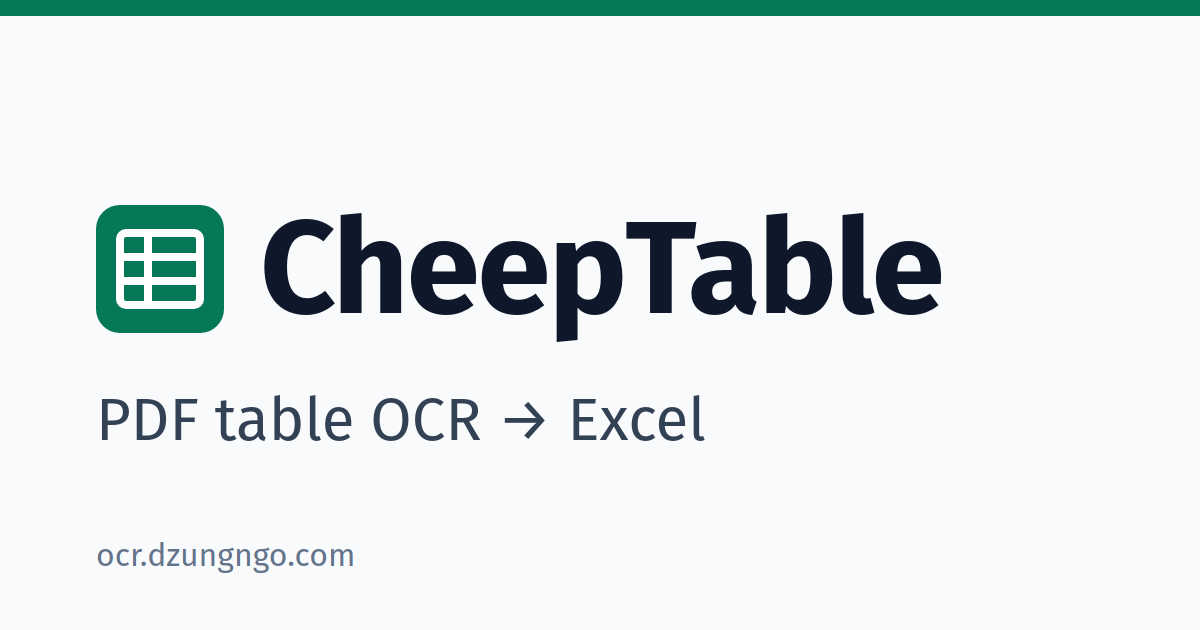
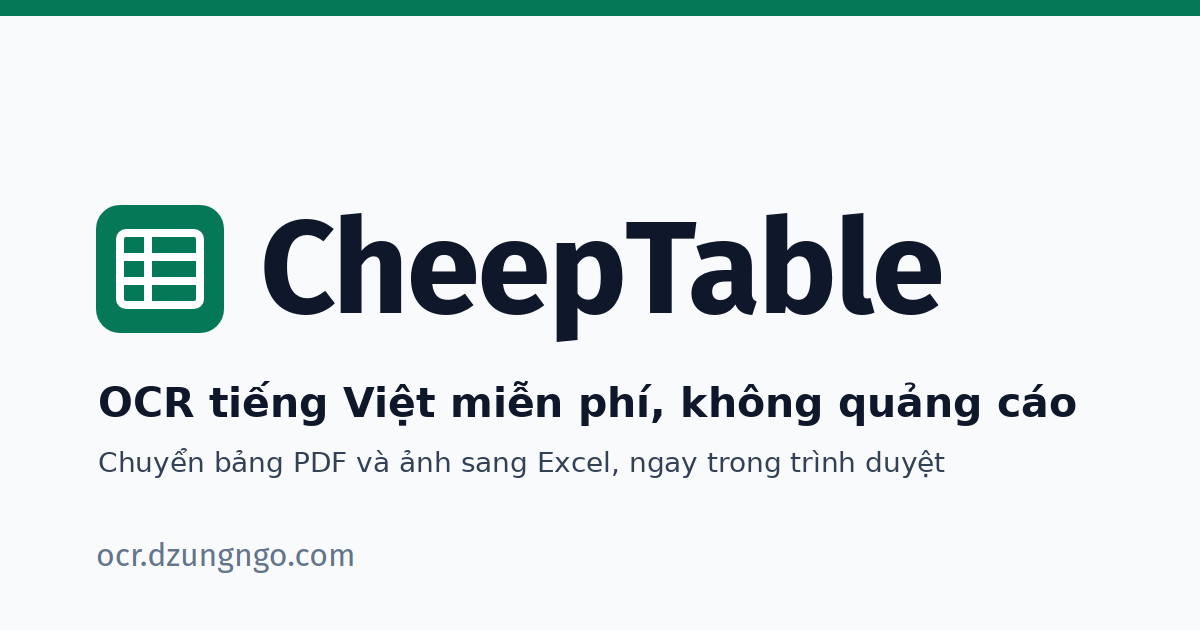
feat: present CheepTable as free and ad-free Vietnamese OCR
- title, description, share image, structured data (free to use), badge row, FAQ entry and footer say it
- sitemap date refreshed

Changed region(s): [[0.0617, 0.6032, 0.8942, 0.754]]

diff --git a/docs/index.html b/docs/index.html
@@ -3,9 +3,9 @@
 <head>
 <meta charset="UTF-8">
 <meta name="viewport" content="width=device-width, initial-scale=1">
-<title>CheepTable — Chuyển bảng PDF tiếng Việt sang Excel</title>
-<meta name="description" content="Chuyển bảng trong PDF và ảnh tiếng Việt sang Excel ngay trên trình duyệt. Không tải tệp lên máy chủ. Dùng cho bảng tiên lượng, báo cáo tài chính, bảng giá. Extract Vietnamese tables to Excel in your browser.">
-<meta name="keywords" content="chuyển PDF sang Excel, OCR tiếng Việt, bảng tiên lượng, báo cáo tài chính, bảng giá, nhận dạng bảng, PDF table extraction, Vietnamese OCR">
+<title>CheepTable — OCR tiếng Việt miễn phí, không quảng cáo</title>
+<meta name="description" content="OCR tiếng Việt miễn phí, không quảng cáo, không cần đăng ký. Chuyển bảng trong PDF và ảnh sang Excel ngay trên trình duyệt; tệp không rời khỏi máy bạn.">
+<meta name="keywords" content="OCR tiếng Việt miễn phí, OCR không quảng cáo, chuyển PDF sang Excel, bảng tiên lượng, báo cáo tài chính, bảng giá, nhận dạng bảng, free Vietnamese OCR, ad-free OCR, PDF table extraction">
 <meta name="author" content="CheepTable">
 <meta name="theme-color" content="#1d4ed8">
 <link rel="canonical" href="https://ocr.dzungngo.com/">
@@ -14,21 +14,22 @@
 <meta property="og:type" content="website">
 <meta property="og:locale" content="vi_VN">
 <meta property="og:url" content="https://ocr.dzungngo.com/">
-<meta property="og:title" content="CheepTable — Chuyển bảng PDF tiếng Việt sang Excel">
-<meta property="og:description" content="Nhận dạng bảng tiếng Việt trong PDF và ảnh, xuất Excel. Chạy hoàn toàn trong trình duyệt, tệp không rời khỏi máy bạn.">
+<meta property="og:title" content="CheepTable — OCR tiếng Việt miễn phí, không quảng cáo">
+<meta property="og:description" content="Chuyển bảng trong PDF và ảnh sang Excel. Miễn phí, không quảng cáo, không đăng ký; chạy trong trình duyệt, tệp không rời khỏi máy bạn.">
 <meta property="og:image" content="https://ocr.dzungngo.com/og-image.png">
 <meta property="og:image:width" content="1200">
 <meta property="og:image:height" content="630">
-<meta property="og:image:alt" content="CheepTable: chuyển bảng PDF sang Excel">
+<meta property="og:image:alt" content="CheepTable: OCR tiếng Việt miễn phí, không quảng cáo">
 <meta name="twitter:card" content="summary_large_image">
-<meta name="twitter:title" content="CheepTable — Chuyển bảng PDF tiếng Việt sang Excel">
-<meta name="twitter:description" content="Nhận dạng bảng tiếng Việt trong PDF và ảnh, xuất Excel. Chạy hoàn toàn trong trình duyệt.">
+<meta name="twitter:title" content="CheepTable — OCR tiếng Việt miễn phí, không quảng cáo">
+<meta name="twitter:description" content="Chuyển bảng PDF và ảnh sang Excel. Miễn phí, không quảng cáo, chạy trong trình duyệt.">
 <meta name="twitter:image" content="https://ocr.dzungngo.com/og-image.png">
 
 <script type="application/ld+json">
 {"@context":"https://schema.org","@graph":[
-{"@type":"WebApplication","name":"CheepTable","url":"https://ocr.dzungngo.com/","applicationCategory":"BusinessApplication","operatingSystem":"Any (modern browser)","inLanguage":["vi","en"],"description":"Chuyển bảng trong PDF và ảnh tiếng Việt sang Excel ngay trên trình duyệt, không tải tệp lên máy chủ.","offers":{"@type":"Offer","price":"0","priceCurrency":"VND"}},
+{"@type":"WebApplication","name":"CheepTable","url":"https://ocr.dzungngo.com/","applicationCategory":"BusinessApplication","operatingSystem":"Any (modern browser)","inLanguage":["vi","en"],"description":"OCR tiếng Việt miễn phí, không quảng cáo: chuyển bảng trong PDF và ảnh sang Excel ngay trên trình duyệt, không tải tệp lên máy chủ.","isAccessibleForFree":true,"offers":{"@type":"Offer","price":"0","priceCurrency":"VND"}},
 {"@type":"FAQPage","mainEntity":[
+{"@type":"Question","name":"CheepTable có miễn phí không? Có quảng cáo không?","acceptedAnswer":{"@type":"Answer","text":"Có, hoàn toàn miễn phí, không có quảng cáo và không cần đăng ký. Giới hạn hiện tại chỉ là kích thước tệp tối đa 50 MB."}},
 {"@type":"Question","name":"Tệp của tôi có bị tải lên máy chủ không?","acceptedAnswer":{"@type":"Answer","text":"Không. Việc nhận dạng chạy hoàn toàn trong trình duyệt của bạn. Chỉ có các tệp mô hình được tải về một lần ở lần dùng đầu tiên."}},
 {"@type":"Question","name":"Có đọc được bảng không có đường kẻ không?","acceptedAnswer":{"@type":"Answer","text":"Có. Bảng có đường kẻ được cắt theo ô; bảng không có đường kẻ được đọc theo từng dòng chữ rồi ghép thành hàng và cột. Luôn nên kiểm tra các ô được đánh dấu."}},
 {"@type":"Question","name":"Vì sao lần đầu tải lâu hơn?","acceptedAnswer":{"@type":"Answer","text":"Trình duyệt cần tải khoảng 40 MB mô hình nhận dạng. Sau đó chúng được lưu lại nên các lần sau mở ngay."}}
@@ -46,7 +47,9 @@ body{font:16px/1.5 system-ui,-apple-system,"Segoe UI",Roboto,sans-serif;backgrou
 .skip:focus{left:8px}
 header.top{max-width:1100px;margin:0 auto;padding:20px 0 12px;display:flex;flex-wrap:wrap;gap:12px 24px;align-items:center;justify-content:space-between}
 .brand h1{font-size:1.5rem;line-height:1.2}
-.brand p{color:var(--dim);font-size:.95rem;max-width:34rem}
+.brand>p{color:var(--dim);font-size:.95rem;max-width:34rem}
+.badges{list-style:none;padding:0;display:flex;flex-wrap:wrap;gap:6px;margin-top:8px}
+.badges li{font-size:.8rem;font-weight:600;padding:2px 10px;border:1px solid var(--ok);color:var(--ok);border-radius:999px}
 .prefs{display:flex;flex-wrap:wrap;gap:8px 16px;align-items:center}
 .seg{display:inline-flex;border:1px solid var(--border);border-radius:8px;overflow:hidden}
 .seg label{position:relative;cursor:pointer}
@@ -92,7 +95,8 @@ footer a{color:inherit}
 <header class="top">
   <div class="brand">
     <h1>CheepTable</h1>
-    <p>Chuyển bảng trong PDF và ảnh tiếng Việt sang Excel, ngay trong trình duyệt.</p>
+    <p data-i18n="tagline">OCR tiếng Việt miễn phí, không quảng cáo: chuyển bảng trong PDF và ảnh sang Excel, ngay trong trình duyệt.</p>
+    <ul class="badges"><li data-i18n="badgeFree">Miễn phí</li><li data-i18n="badgeNoAds">Không quảng cáo</li><li data-i18n="badgeNoSignup">Không cần đăng ký</li><li data-i18n="badgeLocal">Chạy trong trình duyệt</li></ul>
   </div>
   <div class="prefs">
     <div class="seg" role="radiogroup" aria-labelledby="modeLabel">
@@ -142,6 +146,7 @@ footer a{color:inherit}
     </section>
     <section>
       <h2>Câu hỏi thường gặp</h2>
+      <details><summary>CheepTable có miễn phí không? Có quảng cáo không?</summary><p>Có, hoàn toàn miễn phí, không có quảng cáo và không cần đăng ký. Giới hạn hiện tại chỉ là kích thước tệp tối đa 50 MB.</p></details>
       <details><summary>Tệp của tôi có bị tải lên máy chủ không?</summary><p>Không. Việc nhận dạng chạy hoàn toàn trong trình duyệt của bạn. Chỉ có các tệp mô hình được tải về một lần ở lần dùng đầu tiên.</p></details>
       <details><summary>Có đọc được bảng không có đường kẻ không?</summary><p>Có. Bảng có đường kẻ được cắt theo ô; bảng không có đường kẻ được đọc theo từng dòng chữ rồi ghép thành hàng và cột. Luôn nên kiểm tra các ô được đánh dấu.</p></details>
       <details><summary>Vì sao lần đầu tải lâu hơn?</summary><p>Trình duyệt cần tải khoảng 40 MB mô hình nhận dạng. Sau đó chúng được lưu lại nên các lần sau mở ngay.</p></details>
@@ -150,7 +155,7 @@ footer a{color:inherit}
   </article>
 </main>
 
-<footer><a href="https://dzungngo.com">dzungngo.com</a></footer>
+<footer><span data-i18n="footerFree">Miễn phí, không quảng cáo.</span> · <a href="https://dzungngo.com">dzungngo.com</a></footer>
 <noscript><p style="max-width:1100px;margin:16px auto;padding:12px;border:1px solid #b91c1c">CheepTable cần JavaScript để nhận dạng bảng ngay trong trình duyệt. / CheepTable needs JavaScript to run OCR in your browser.</p></noscript>
 <script src="app.js" defer></script>
 </body>

diff --git a/docs/app.js b/docs/app.js
@@ -22,7 +22,9 @@ CT.t = (key, params) => {
   return params ? s.replace(/\{(\w+)\}/g, (_, k) => params[k] ?? '') : s;
 };
 CT.addStrings({
-  title: 'CheepTable — Chuyển bảng PDF tiếng Việt sang Excel',
+  title: 'CheepTable — OCR tiếng Việt miễn phí, không quảng cáo',
+  tagline: 'OCR tiếng Việt miễn phí, không quảng cáo: chuyển bảng trong PDF và ảnh sang Excel, ngay trong trình duyệt.',
+  badgeFree: 'Miễn phí', badgeNoAds: 'Không quảng cáo', badgeNoSignup: 'Không cần đăng ký', badgeLocal: 'Chạy trong trình duyệt', footerFree: 'Miễn phí, không quảng cáo.',
   modeSimple: 'Đơn giản', modeGuided: 'Từng bước', modeWorkbench: 'Đối chiếu',
   modeSimpleHint: 'Chọn tệp, nhận bảng, tải Excel', modeGuidedHint: 'Bốn bước, có tiến độ chi tiết từng trang',
   modeWorkbenchHint: 'Trang gốc bên cạnh bảng, bấm ô để xem đúng chỗ',
@@ -36,7 +38,9 @@ CT.addStrings({
   loadingEngine: 'Đang nạp bộ xử lý…',
   skip: 'Bỏ qua đến nội dung chính',
 }, {
-  title: 'CheepTable — Vietnamese PDF tables to Excel',
+  title: 'CheepTable — Free, ad-free Vietnamese OCR',
+  tagline: 'Free, ad-free Vietnamese OCR: turn tables in PDFs and images into Excel, right in your browser.',
+  badgeFree: 'Free', badgeNoAds: 'No ads', badgeNoSignup: 'No sign-up', badgeLocal: 'Runs in your browser', footerFree: 'Free, no ads.',
   modeSimple: 'Simple', modeGuided: 'Guided', modeWorkbench: 'Side by side',
   modeSimpleHint: 'Pick a file, get the table, download Excel', modeGuidedHint: 'Four steps with detailed per-page progress',
   modeWorkbenchHint: 'Source page beside the table; click a cell to see it in place',
